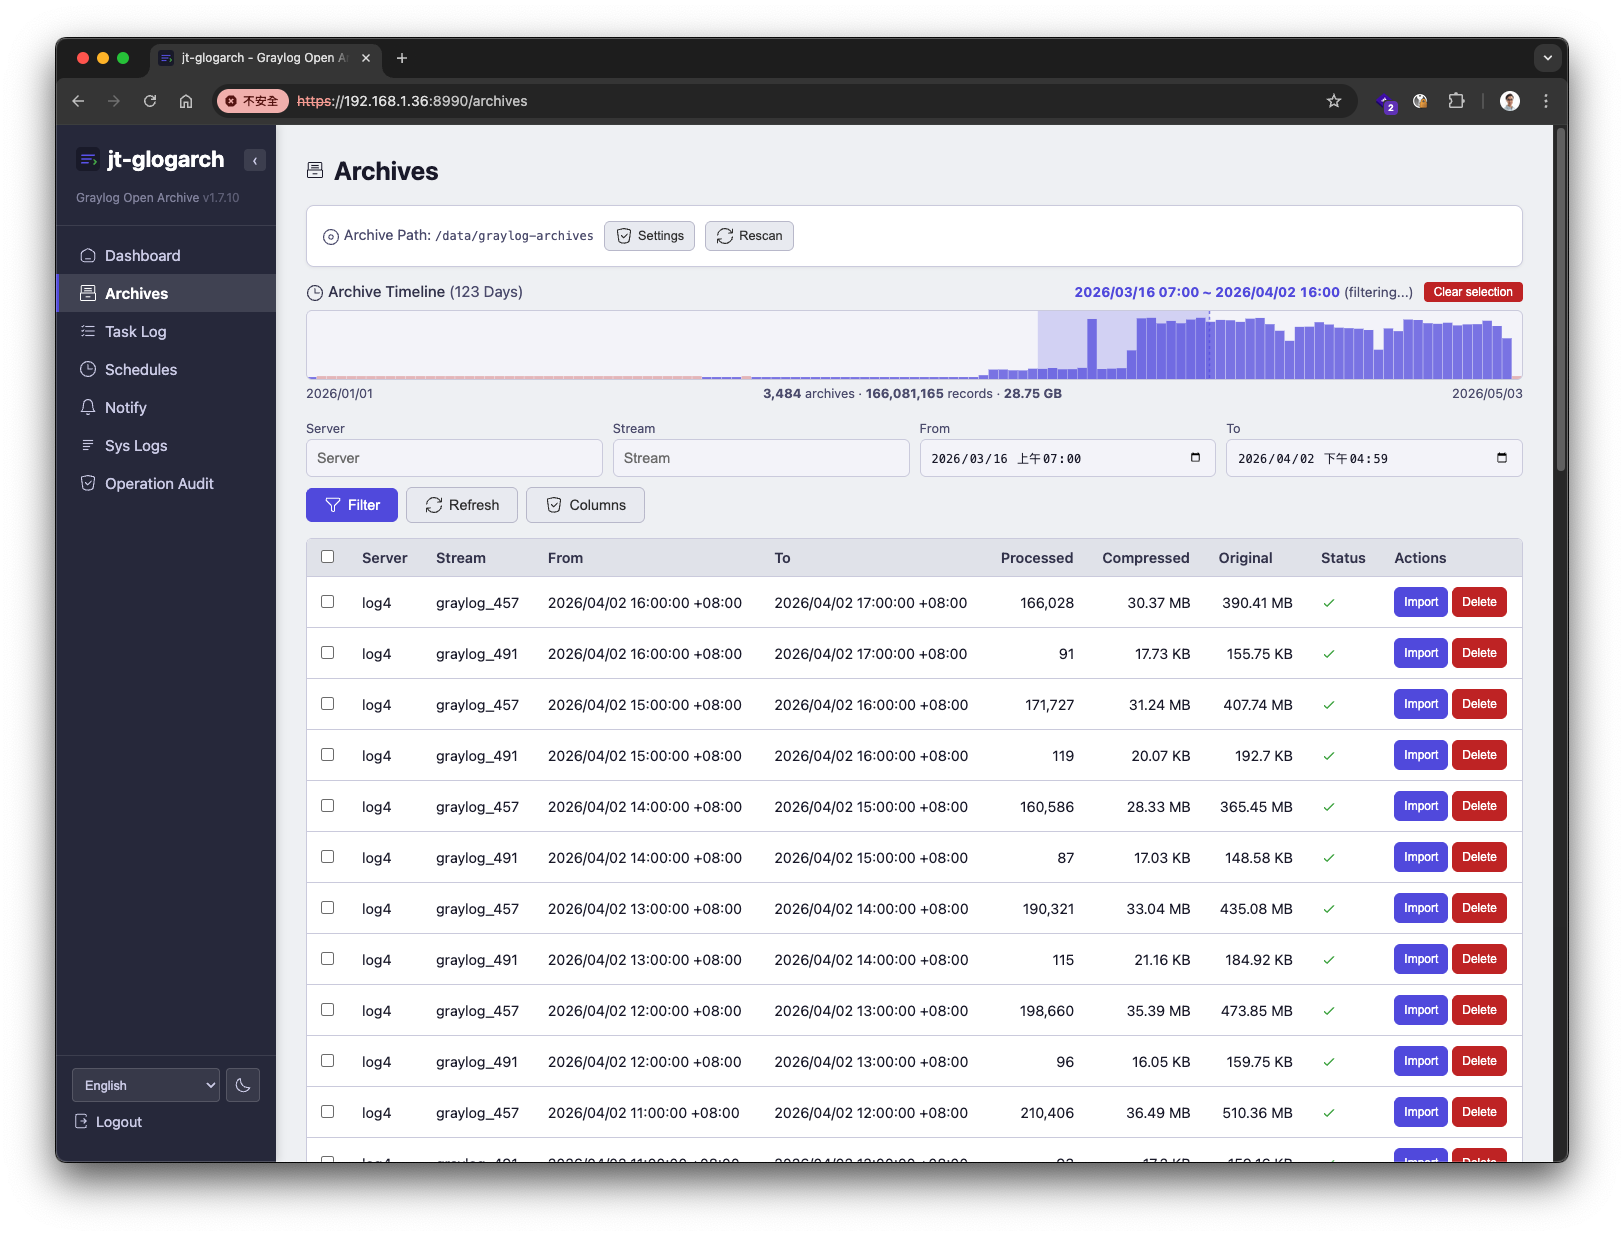
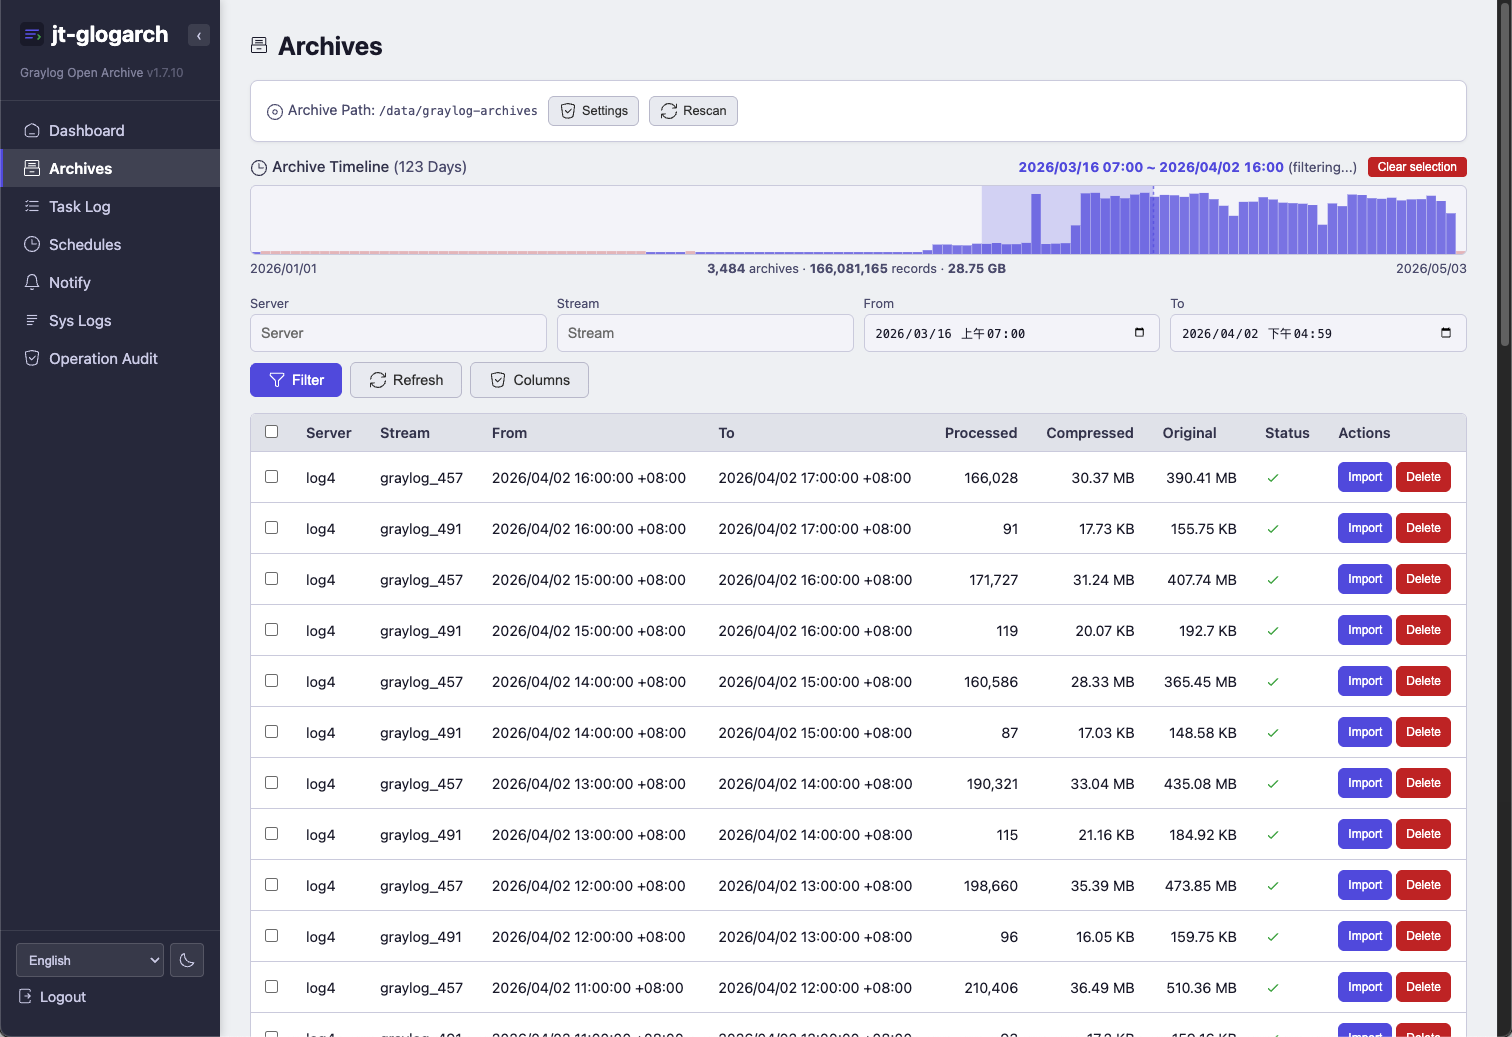
docs: crop browser chrome from screenshots, add macOS-style shadow
Cropped 16 README screenshots to remove the surrounding black
padding and the browser chrome (window controls + URL bar) at the
top — uniform crop box (56, 125, 1568, 1162) detected from the source
batch. Each image goes from 1624x1236 down to 1512x1037, dropping ~30%
of the file size while keeping every pixel of actual content.

Refreshed the 12 screenshots used by the GitHub Pages gallery from
the cropped originals.

CSS: .shot img.ss-img now renders with macOS-native-style drop shadow
(short close shadow + larger soft shadow + faint highlight outline)
plus 8px rounded corners — so the cropped screenshots float on the
dark gallery background the way a real macOS window would.

diff --git a/docs/style.css b/docs/style.css
@@ -580,6 +580,12 @@ section .subhead {
   transform: translateZ(0);          /* nudge GPU compositor — smooths Chrome/Safari downscaling */
   -webkit-backface-visibility: hidden;
   backface-visibility: hidden;
+  border-radius: 8px;                /* macOS-style window rounded corners */
+  /* macOS native window drop-shadow — large soft shadow + tight outline */
+  box-shadow:
+    0 1px 2px rgba(0, 0, 0, 0.30),
+    0 12px 28px rgba(0, 0, 0, 0.45),
+    0 0 0 1px rgba(255, 255, 255, 0.06);
 }
 .shot .label {
   padding: 12px 6px 14px;
